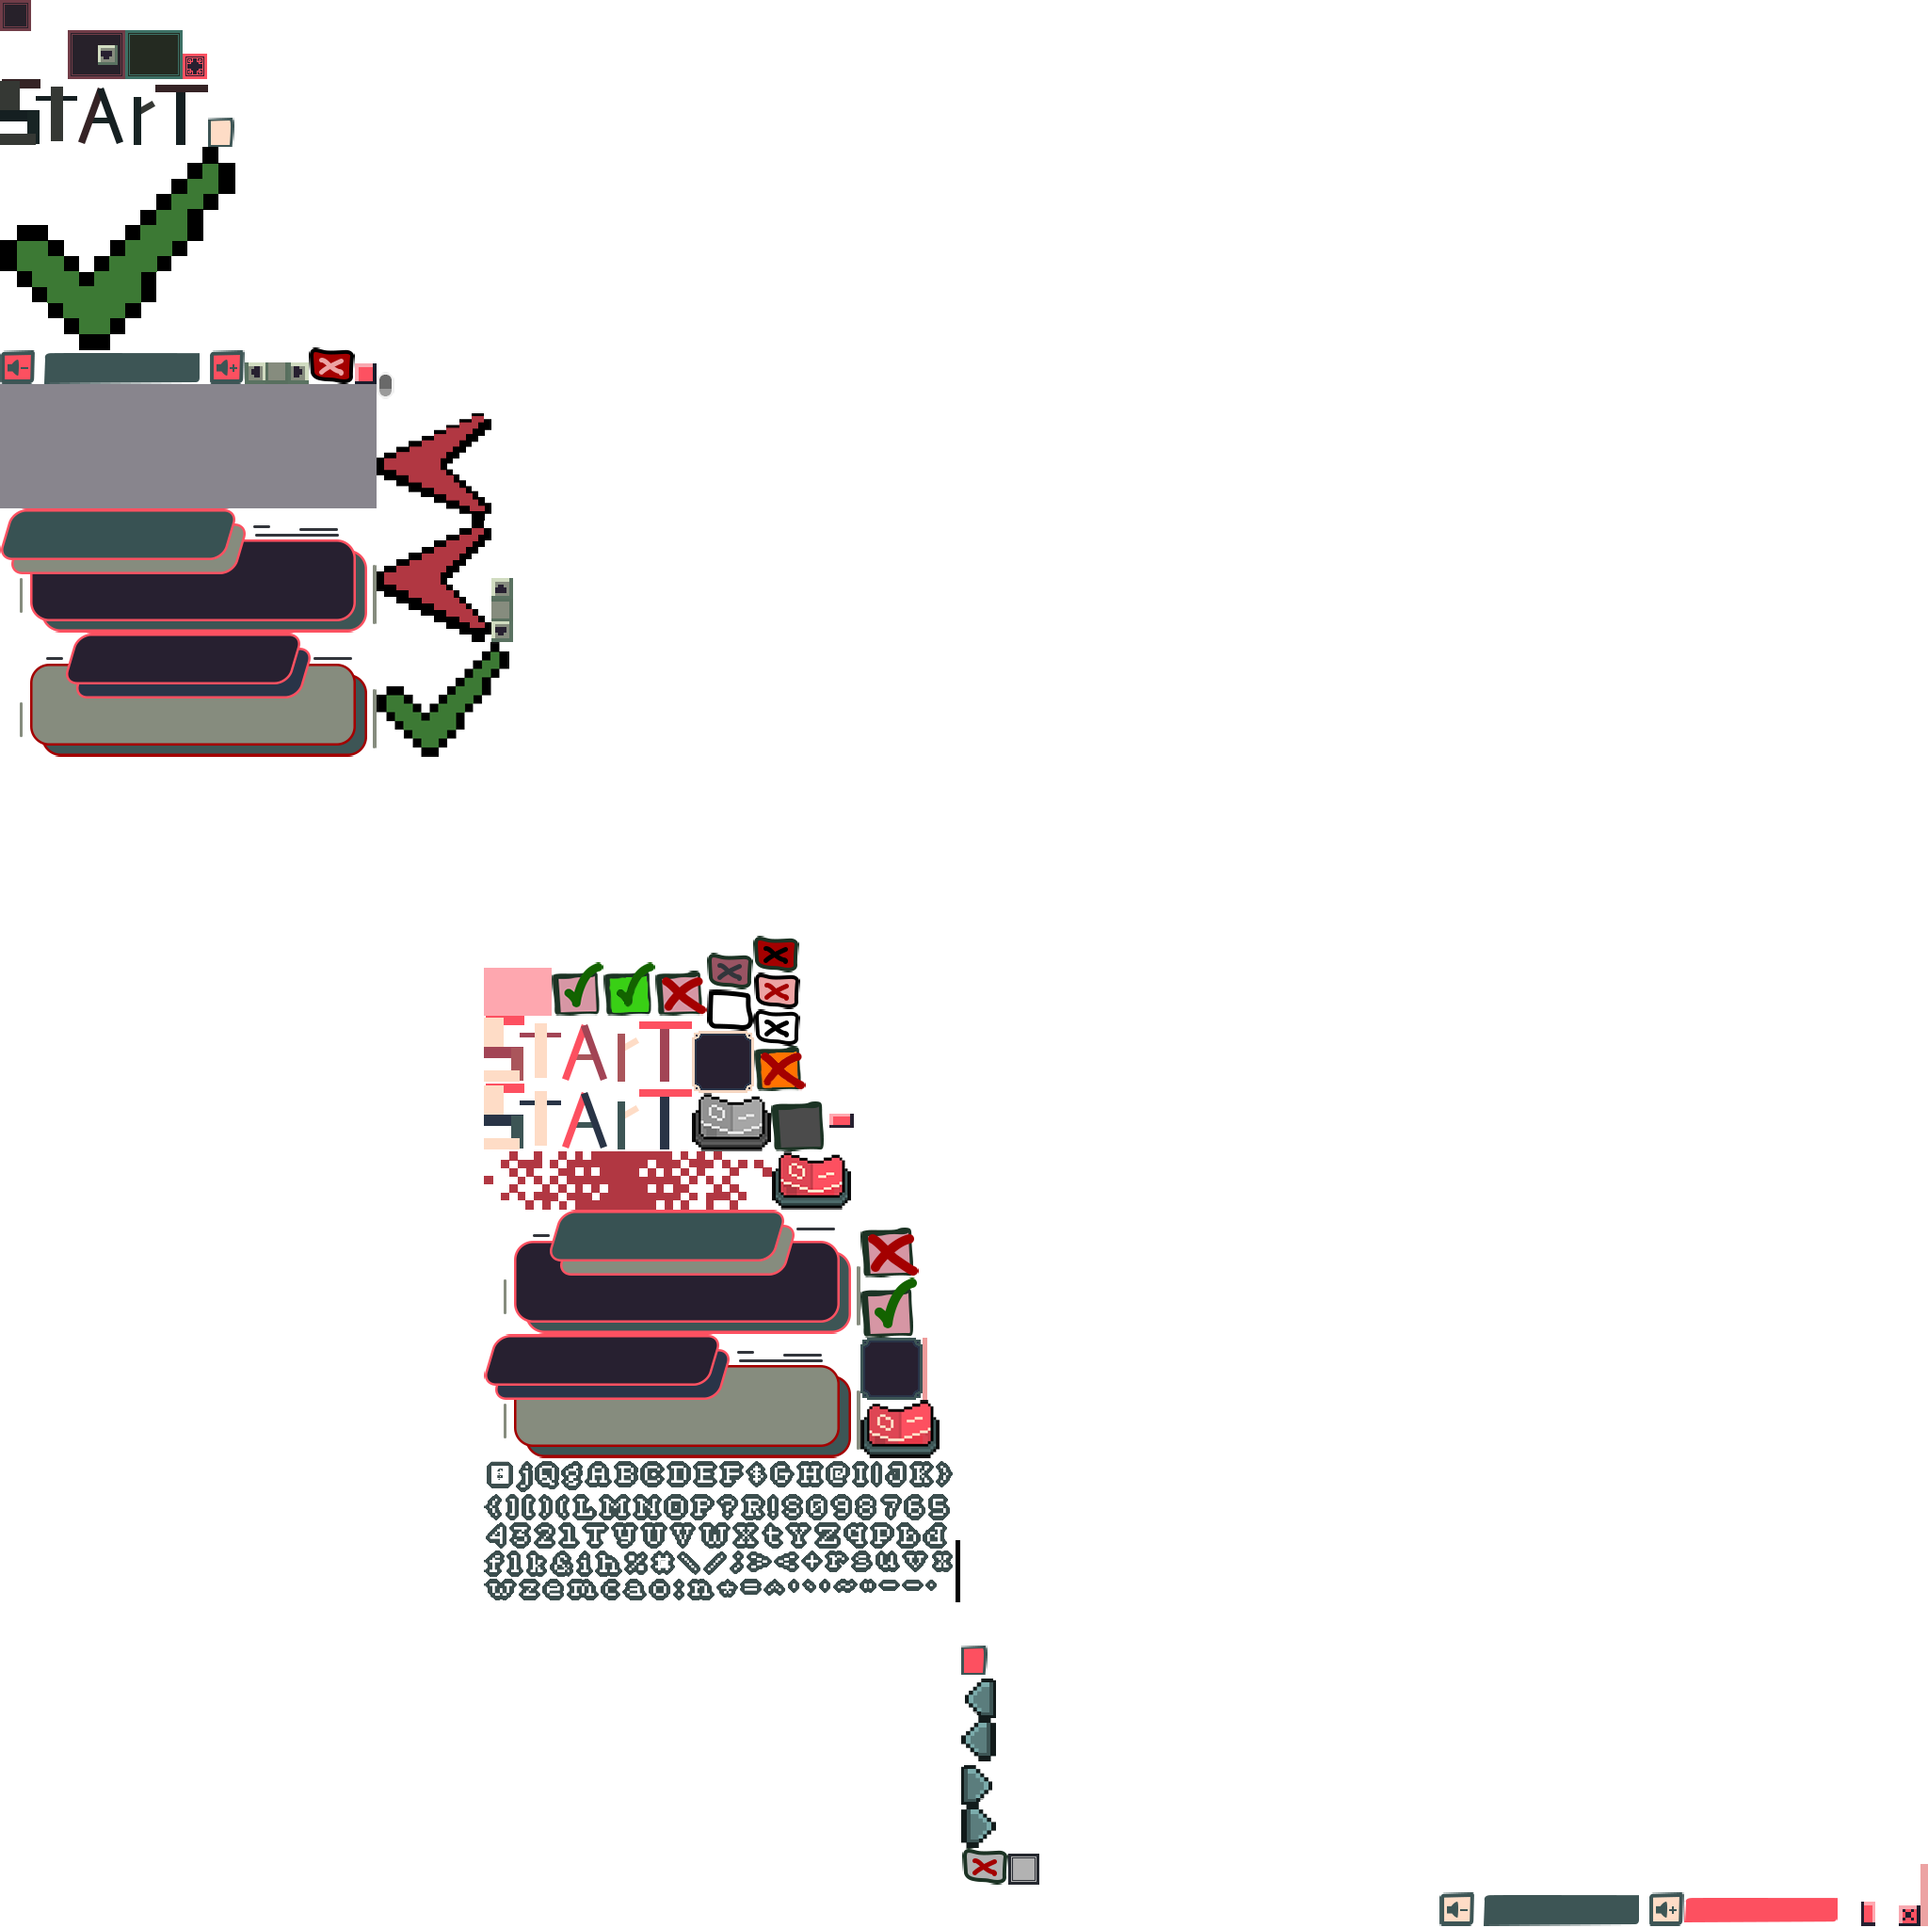
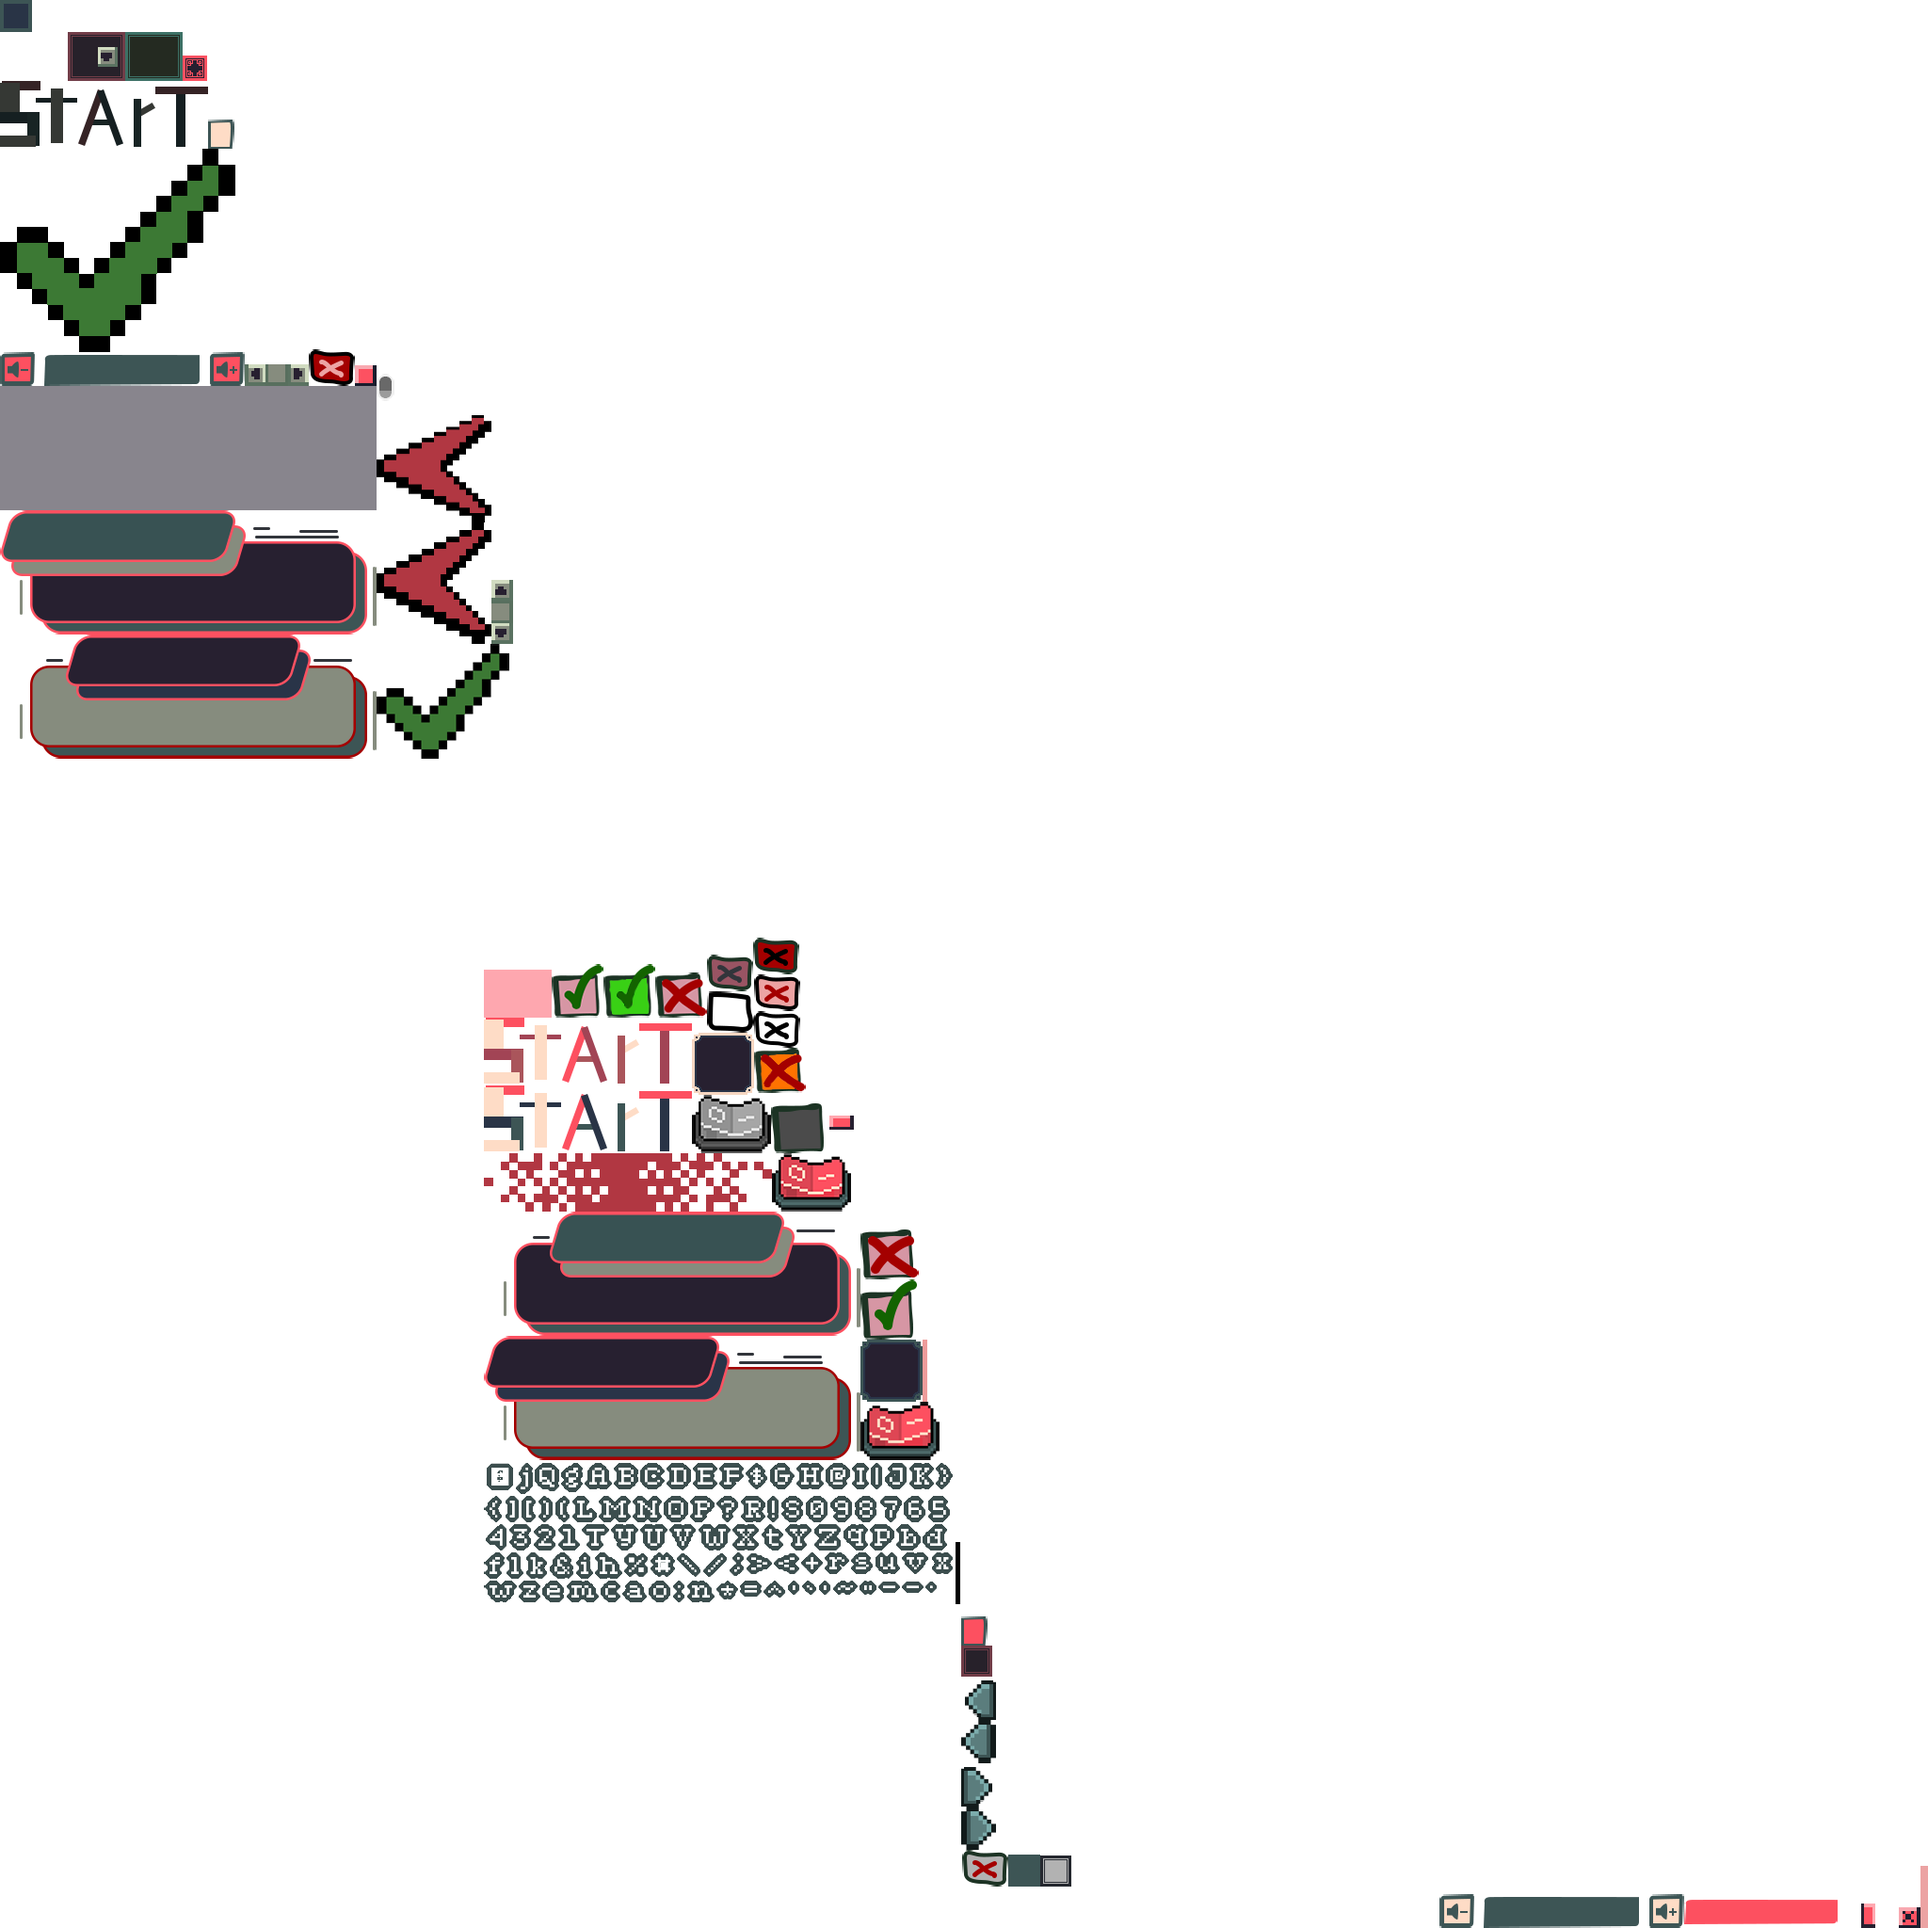
add xpBar

diff --git a/core/src/main/java/com/tilldawn/Controller/GameController.java b/core/src/main/java/com/tilldawn/Controller/GameController.java
@@ -3,6 +3,8 @@ package com.tilldawn.Controller;
 import com.badlogic.gdx.Gdx;
 import com.badlogic.gdx.Input;
 import com.badlogic.gdx.scenes.scene2d.InputEvent;
+import com.badlogic.gdx.scenes.scene2d.Stage;
+import com.badlogic.gdx.scenes.scene2d.ui.ProgressBar;
 import com.badlogic.gdx.scenes.scene2d.utils.ClickListener;
 import com.tilldawn.Models.App;
 import com.tilldawn.Models.AssetManager;
@@ -12,9 +14,17 @@ import com.tilldawn.View.MainMenu;
 import com.tilldawn.View.PauseMenu;
 
 public class GameController {
+    private final ProgressBar xpBar;
     private GameView view;
     private PlayerController playerController;
     private BulletController bulletController;
+
+    public GameController(Stage stage) {
+        xpBar = new ProgressBar(0, 100, 1, false, AssetManager.getInstance().getSkin());
+        xpBar.setSize(stage.getWidth() - 70, 100);
+        xpBar.setPosition((stage.getWidth() - xpBar.getWidth()) / 2, stage.getHeight() - xpBar.getHeight());
+        stage.addActor(xpBar);
+    }
 
     public void updateGame() {
         if (view != null) {
@@ -30,6 +40,8 @@ public class GameController {
         if (Gdx.input.isKeyJustPressed(Input.Keys.ESCAPE) && view.getGame().isGamePaused()) {
             bulletController.setPauseMode(true);
             view.getGame().getTimer().setPauseMode(true);
+            setPauseMode(true);
+
 
             view.getGame().setGamePaused(true);
             TillDawn.setCursor("Mouse.png");
@@ -42,6 +54,7 @@ public class GameController {
                     TillDawn.setCursor("CursorSprite.png");
                     bulletController.setPauseMode(false);
                     view.getGame().getTimer().setPauseMode(false);
+                    setPauseMode(false);
                 }
             });
 
@@ -66,6 +79,10 @@ public class GameController {
 
             pauseMenu.show(view.getStage());
         }
+    }
+
+    private void setPauseMode(boolean state) {
+        xpBar.setVisible(!state);
     }
 
     public PlayerController getPlayerController() {

diff --git a/core/src/main/java/com/tilldawn/Controller/BulletController.java b/core/src/main/java/com/tilldawn/Controller/BulletController.java
@@ -26,7 +26,6 @@ public class BulletController {
     private final GameView view;
     private final Label ammo;
     private final Label kill;
-    private boolean pauseState = false;
 
     public BulletController(Gun gun, GameView view) {
         this.view = view;
@@ -50,7 +49,7 @@ public class BulletController {
             skin,
             "chvyExprs_GREEN_24");
         ammoTable.add(ammo);
-        ammoTable.setPosition(ammoTable.getPrefWidth() / 2 + 50, view.getStage().getHeight() - 100);
+        ammoTable.setPosition(ammoTable.getPrefWidth() / 2 + 50, view.getStage().getHeight() - 75);
         view.getStage().addActor(ammoTable);
 
         // kill
@@ -66,8 +65,7 @@ public class BulletController {
         Image killImage = new Image(killTexture);
         killTable.add(killImage).size(killTexture.getWidth() * scale + 1,
             killTexture.getHeight() * scale + 1);
-        killTable.setPosition(view.getStage().getWidth() - 50,
-            view.getStage().getHeight() - 100);
+        killTable.setPosition(view.getStage().getWidth() - 50, view.getStage().getHeight() - 75);
         killImage.setWidth(ammoTable.getPrefWidth());
         view.getStage().addActor(killTable);
     }

diff --git a/lwjgl3/src/main/java/com/tilldawn/lwjgl3/Lwjgl3Launcher.java b/lwjgl3/src/main/java/com/tilldawn/lwjgl3/Lwjgl3Launcher.java
@@ -11,8 +11,8 @@ public class Lwjgl3Launcher {
         createApplication();
     }
 
-    private static Lwjgl3Application createApplication() {
-        return new Lwjgl3Application(new TillDawn(), getDefaultConfiguration());
+    private static void createApplication() {
+        new Lwjgl3Application(new TillDawn(), getDefaultConfiguration());
     }
 
     private static Lwjgl3ApplicationConfiguration getDefaultConfiguration() {
@@ -27,9 +27,9 @@ public class Lwjgl3Launcher {
         Graphics.DisplayMode displayMode = Lwjgl3ApplicationConfiguration.getDisplayMode();
         // not fullscreen :
 //        configuration.setWindowedMode((int)(displayMode.width * 0.8), (int)(displayMode.height * 0.8));
-        configuration.setWindowedMode(displayMode.width, displayMode.height);
+//        configuration.setWindowedMode(displayMode.width, displayMode.height);
         // full screen :
-//        configuration.setFullscreenMode(displayMode);
+        configuration.setFullscreenMode(displayMode);
 
         configuration.setWindowIcon("libgdx128.png", "libgdx64.png", "libgdx32.png", "libgdx16.png");
         return configuration;

diff --git a/core/src/main/java/com/tilldawn/Models/Timer.java b/core/src/main/java/com/tilldawn/Models/Timer.java
@@ -55,7 +55,7 @@ public class Timer {
         table.add(image4).size(digits[0].getWidth() * scale, digits[0].getHeight() * scale).pad(padding);
         timerWindow.add(table).pad(1);
         timerWindow.pack();
-        timerWindow.setPosition((view.getStage().getWidth() - timerWindow.getWidth()) / 2, timerWindow.getPrefHeight() / 2 + 5);
+        timerWindow.setPosition((view.getStage().getWidth() - timerWindow.getWidth()) / 2, 25);
         timerWindow.getColor().a = 0.5f;
         view.getStage().addActor(timerWindow);
     }

diff --git a/core/src/main/java/com/tilldawn/View/GameView.java b/core/src/main/java/com/tilldawn/View/GameView.java
@@ -33,7 +33,7 @@ public class GameView implements InputProcessor, Screen {
         this.game = game;
 
         TillDawn.setCursor("CursorSprite.png");
-        this.controller = new GameController();
+        this.controller = new GameController(stage);
         controller.setView(this);
 
         Random random = new Random();
